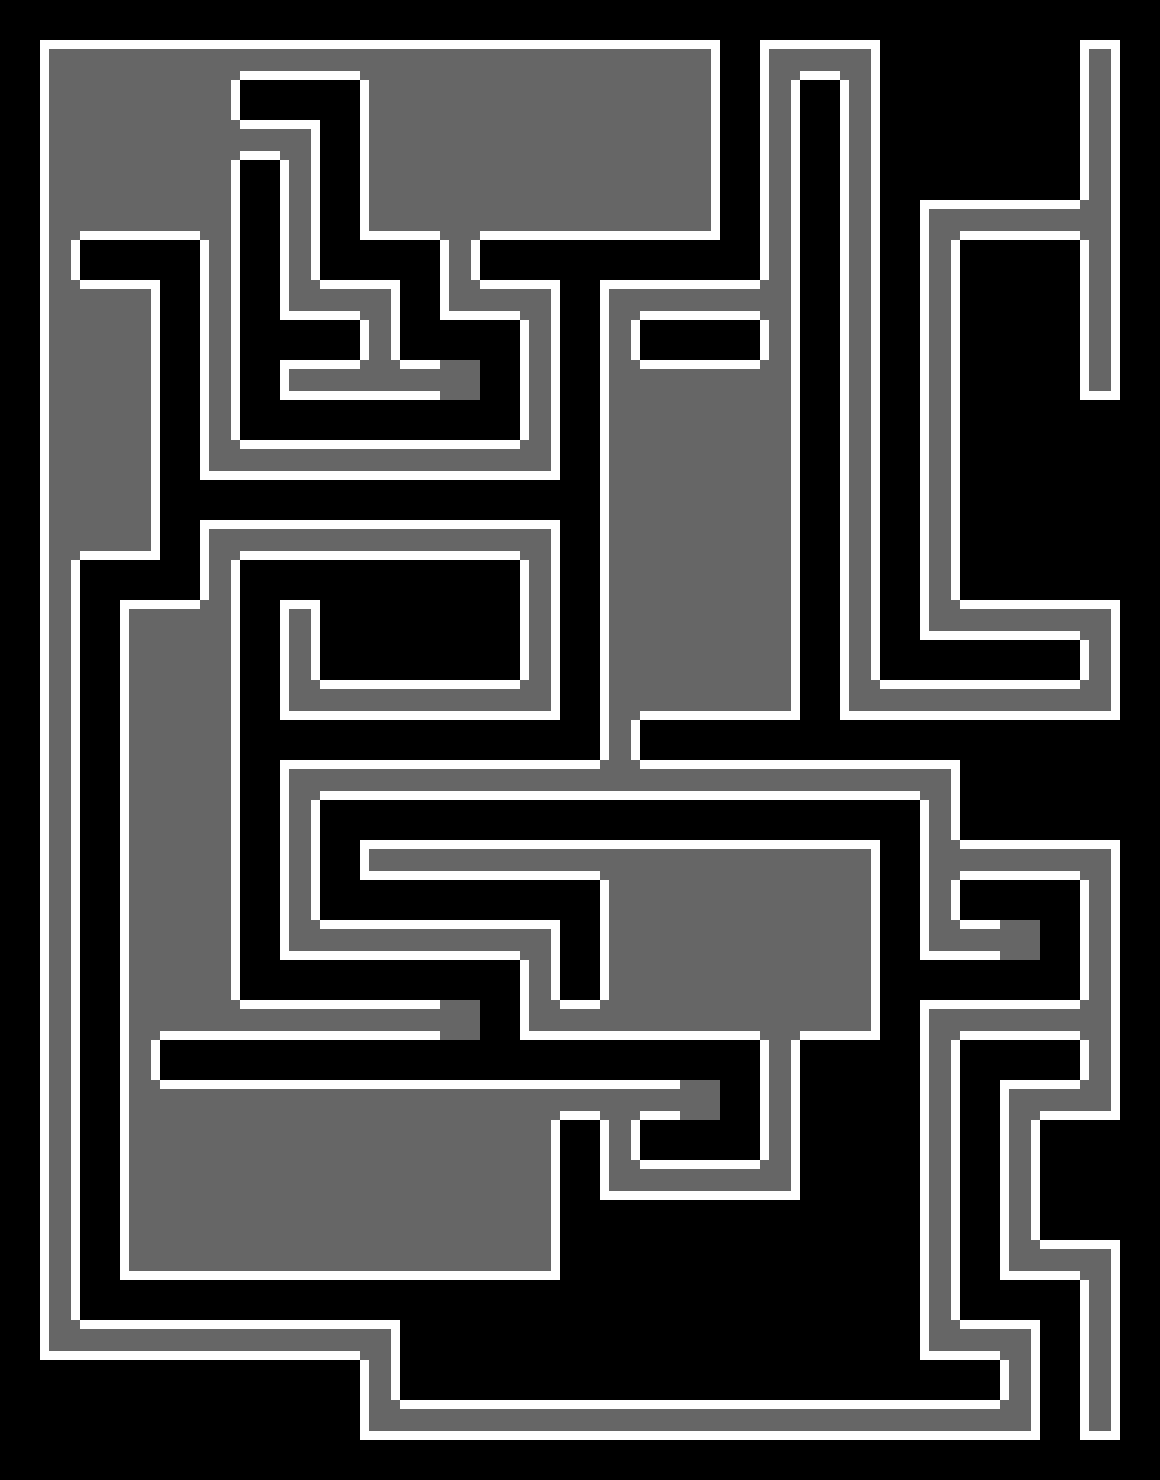
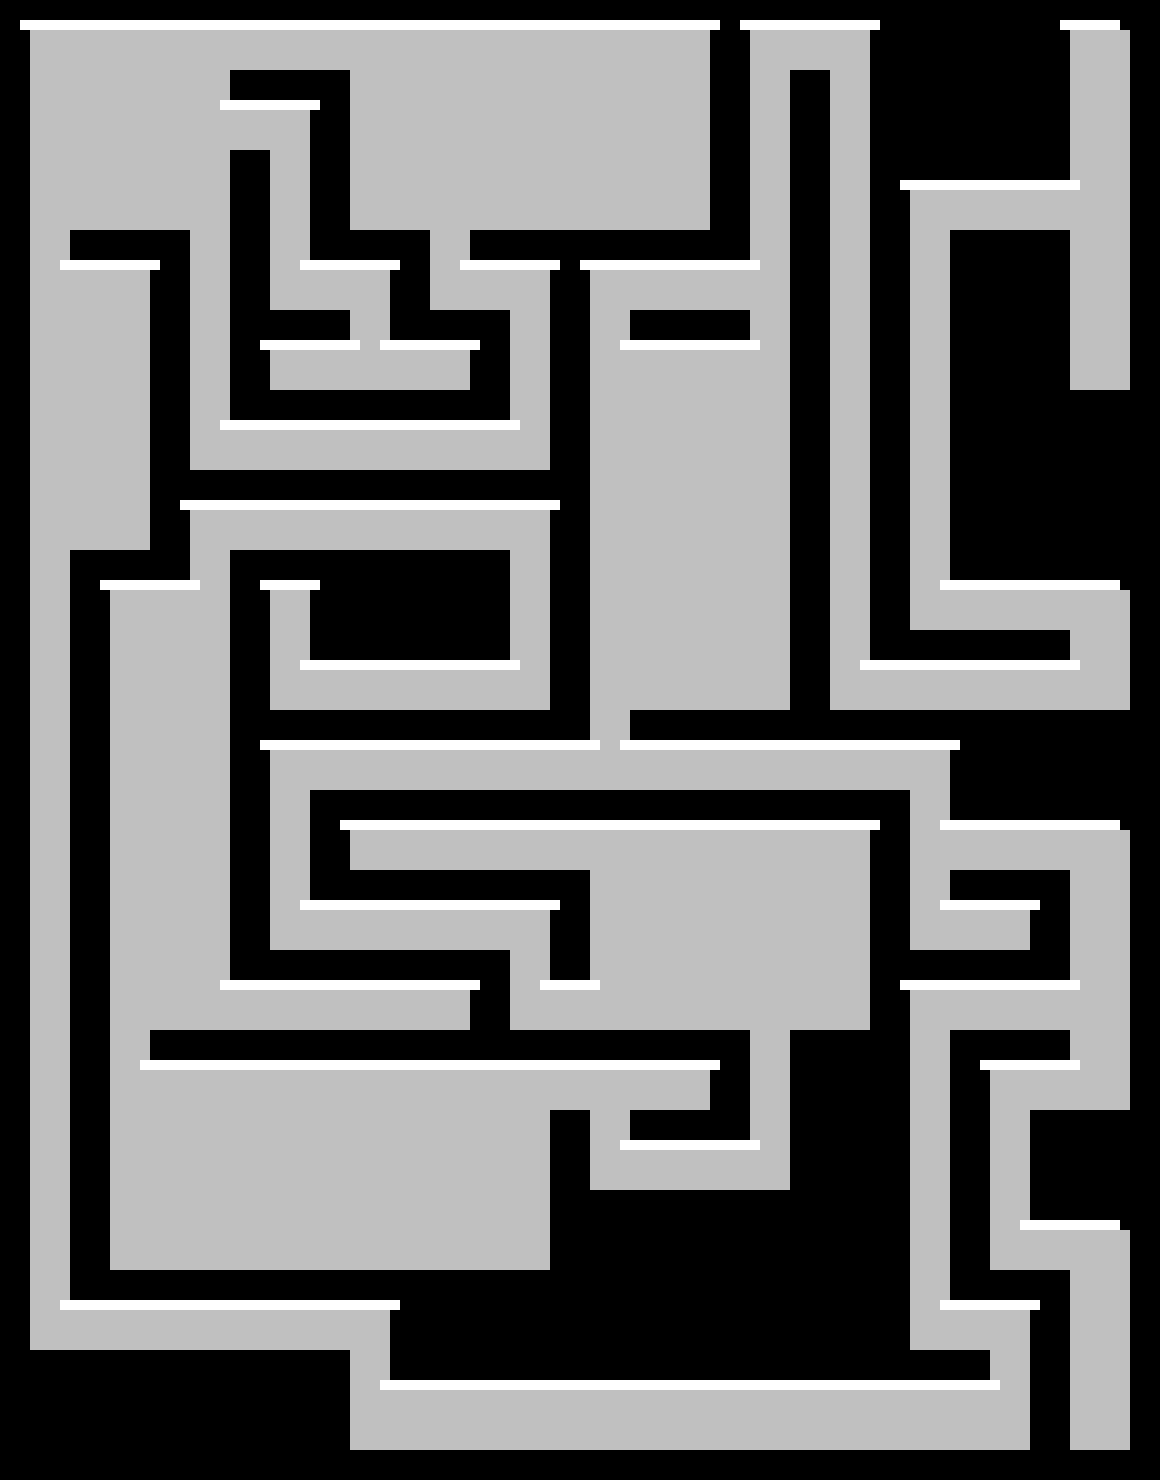
Trying something new so that maybe we get corners, though likely this will fail

diff --git a/general/donjon-dungeons/donjon-dungeons.py b/general/donjon-dungeons/donjon-dungeons.py
@@ -102,6 +102,9 @@ def print_dungeon(lines):
                 print("  ", end="")
         print()
 
+def create_map_matrix(lines):
+    pass
+
 def create_map_image(lines, style="base"):
     imgdir = os.path.abspath("images/base/")
     outdir = os.path.abspath("output/")
@@ -111,7 +114,7 @@ def create_map_image(lines, style="base"):
     # Get the tiles
     tiles = {}
     for fn in png_files:
-        imgpath = os.path.abspath("images/base/" + fn)
+        imgpath = os.path.abspath("images/base2/" + fn)
         tiles[fn.split(".")[0]] = Image.open(imgpath)
 
     img_h = len(lines) * 40
@@ -126,12 +129,23 @@ def create_map_image(lines, style="base"):
             s = get_nsew(lines, r, c)
             x = c * 40
             y = r * 40
-            if s in tiles:
-                map_image.paste(tiles[s], (x, y))
+            off = 10
+            if s == "bg":
+                map_image.paste(tiles['bg'], (x-off, y-off))
             else:
-                map_image.paste(tiles['floor'], (x, y))
+                map_image.paste(tiles['floor'], (x-off, y-off))
             print(s, end="\t")
         print()
+
+    for r in range(len(lines)-1):
+        line = lines[r]
+        for c in range(len(line)-1):
+            s = get_nsew(lines, r, c)
+            x = c * 40
+            y = r * 40
+            off = 20
+            if "N" in s:
+                map_image.paste(tiles['N'], (x-off, y-off))
 
     map_image.save(os.path.abspath("output/test_image.png"), "PNG")
 
